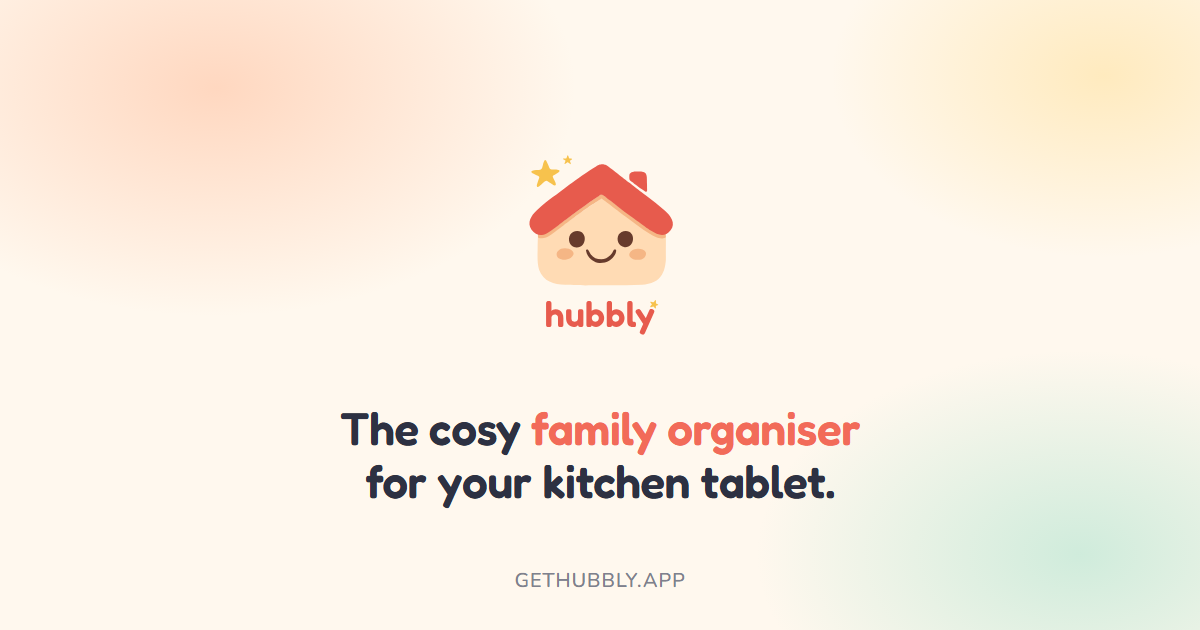
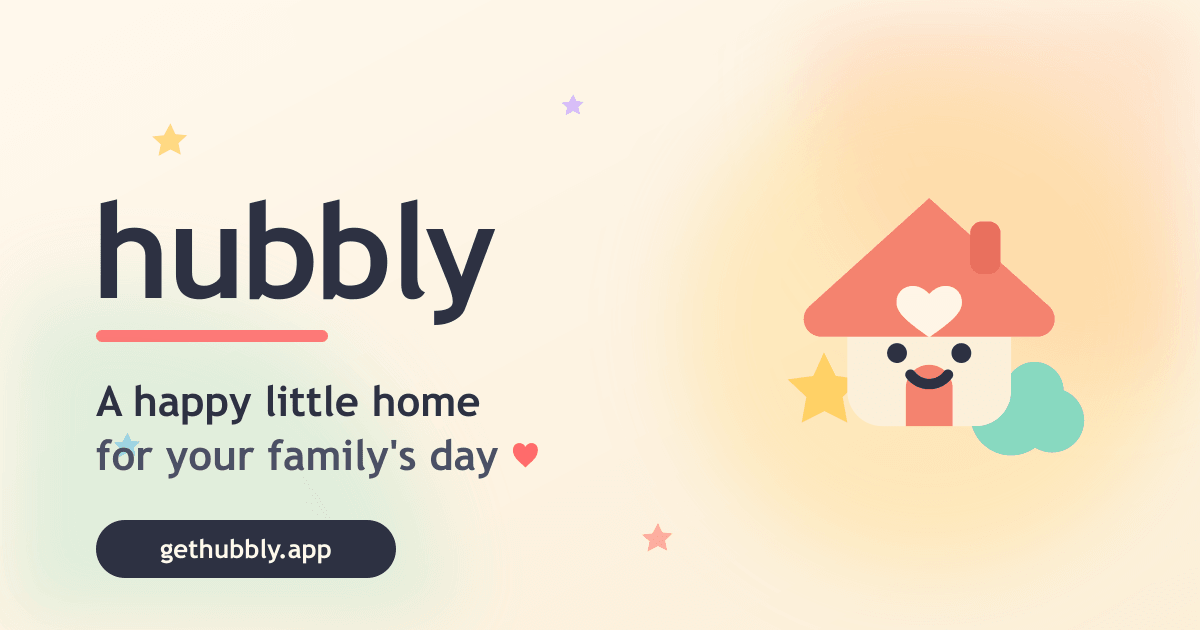
@ Adopt "happy little home" tagline; trim landing; dynamic mockup date
- New tagline "A happy little home for your familys day" across hero H1,
  SITE.tagline, SITE.description, og:image:alt, site.webmanifest, privacy
  policy intro, OG image script, README and package.json description.
- Hero subhead expanded to "routines, calendars, meals, lists, star rewards
  and more" and reframed for cross-device: syncs across the kitchen tablet
  and every family phone.
- Tablet mockup header now renders todays date (Astro static build, so it
  refreshes on each deploy) instead of hardcoded "Tuesday, 20 May".
- Removed the social-proof stats card (12 features / tablet phone /
  unlimited members) and its data file; the same facts are stated more
  naturally elsewhere on the page.
- Regenerated public/og-image.png with the new tagline.
@

diff --git a/src/data/site.ts b/src/data/site.ts
@@ -8,10 +8,10 @@ export const SITE = {
   name: 'Hubbly',
   domain: 'gethubbly.app',
   url: 'https://gethubbly.app',
-  tagline: "The cosy command centre for your family's day",
+  tagline: "A happy little home for your family's day",
   /** ~155 char meta description used as the site-wide default. */
   description:
-    'Hubbly is the family organiser app for the kitchen tablet: shared routines, calendar, meals, lists, trips and star rewards, all in one warm family hub.',
+    'Hubbly is the family organiser app for the kitchen tablet and every family phone: routines, calendars, meals, lists, star rewards and more, all in one happy little home.',
   /** Brand heart used in the tagline. */
   heart: '♥',
   launchStatus: 'Coming soon',

diff --git a/README.md b/README.md
@@ -1,6 +1,6 @@
 # Hubbly — marketing & legal website
 
-The public website for **Hubbly**, the cosy command centre for your family's day.
+The public website for **Hubbly**, a happy little home for your family's day.
 Built as a fast, static, accessible site with [Astro](https://astro.build) +
 [Tailwind CSS v4](https://tailwindcss.com). Deploys to **gethubbly.app**.
 
@@ -58,7 +58,6 @@ hubbly/
 | An FAQ | a file in `src/content/faqs/` |
 | Nav / footer links | `src/data/nav.ts` |
 | **Pricing tiers** | `src/data/pricing.ts` |
-| Stats / testimonial | `src/data/stats.ts` |
 | "For families" cards | `src/data/audiences.ts` |
 | Company / contact / store links | `src/data/site.ts` |
 | Social links | `src/data/social.ts` |
